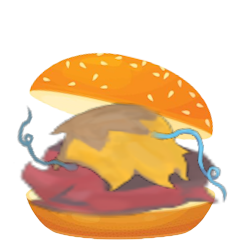
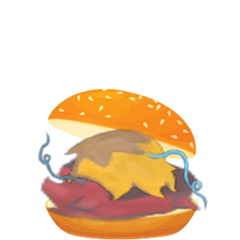
Add SpireSpaghetti food for Snackmaster

diff --git a/src/main/java/spireCafe/interactables/merchants/snackmaster/persistent/SpireSpaghettiBlight.java b/src/main/java/spireCafe/interactables/merchants/snackmaster/persistent/SpireSpaghettiBlight.java
@@ -1,0 +1,66 @@
+package spireCafe.interactables.merchants.snackmaster.persistent;
+
+import com.badlogic.gdx.graphics.g2d.SpriteBatch;
+import com.megacrit.cardcrawl.actions.common.ExhaustAction;
+import com.megacrit.cardcrawl.actions.watcher.SkipEnemiesTurnAction;
+import com.megacrit.cardcrawl.blights.AbstractBlight;
+import com.megacrit.cardcrawl.dungeons.AbstractDungeon;
+import com.megacrit.cardcrawl.vfx.AbstractGameEffect;
+import spireCafe.Anniv7Mod;
+import spireCafe.abstracts.AbstractSCBlight;
+import spireCafe.util.Wiz;
+
+public class SpireSpaghettiBlight extends AbstractSCBlight {
+    public static final String ID = Anniv7Mod.makeID(SpireSpaghettiBlight.class.getSimpleName());
+    public static final int TURN_AMT = 8;
+
+    private boolean usedThisCombat = false;
+
+    public SpireSpaghettiBlight() {
+        super(ID, "spireSpaghetti.png");
+        setCounter(TURN_AMT);
+    }
+
+    @Override
+    public void atBattleStart() {
+        if(!usedUp) {
+            counter--;
+
+            if(counter <= 0) {
+                usedUp();
+            }
+        }
+    }
+
+    @Override
+    public void onPlayerEndTurn() {
+        if(!usedUp && !usedThisCombat&& AbstractDungeon.actionManager.cardsPlayedThisTurn.isEmpty()) {
+            flash();
+            Wiz.att(new ExhaustAction(999, true, false, false));
+            Wiz.atb(new SkipEnemiesTurnAction());
+            usedThisCombat = true;
+        }
+    }
+
+    @Override
+    public void onVictory() {
+        if(usedUp) {
+            AbstractDungeon.effectList.add(new AbstractGameEffect() {
+                @Override
+                public void update() {
+                    isDone = true;
+                    Wiz.p().blights.remove(SpireSpaghettiBlight.this);
+                }
+                public void render(SpriteBatch spriteBatch) {}
+                public void dispose() {}
+            });
+        } else {
+            usedThisCombat = false;
+        }
+    }
+
+    @Override
+    public AbstractBlight makeCopy() {
+        return new SpireSpaghettiBlight();
+    }
+}

diff --git a/src/main/java/spireCafe/interactables/merchants/snackmaster/food/SpireSpaghetti.java b/src/main/java/spireCafe/interactables/merchants/snackmaster/food/SpireSpaghetti.java
@@ -1,0 +1,36 @@
+package spireCafe.interactables.merchants.snackmaster.food;
+
+import com.megacrit.cardcrawl.dungeons.AbstractDungeon;
+import spireCafe.abstracts.AbstractMerchant;
+import spireCafe.interactables.merchants.snackmaster.persistent.SpireSpaghettiBlight;
+
+import static spireCafe.interactables.merchants.snackmaster.SnackmasterMerchant.ZINGER_CUTOFF;
+import static spireCafe.interactables.merchants.snackmaster.SnackmasterMerchant.snackmasterStrings;
+
+public class SpireSpaghetti extends AbstractFoodArticle{
+
+
+    public SpireSpaghetti(AbstractMerchant merchant, int slot) {
+        super("SpireSpaghetti", merchant, slot, "spireSpaghetti");
+    }
+
+    @Override
+    public void foodEffect() {
+        AbstractDungeon.getCurrRoom().spawnBlightAndObtain(xPos, yPos, new SpireSpaghettiBlight());
+    }
+
+    @Override
+    public int getBasePrice() {
+        return 120;
+    }
+
+    @Override
+    public String getTipHeader() {
+        return snackmasterStrings.TEXT[ZINGER_CUTOFF+5];
+    }
+
+    @Override
+    public String getTipBody() {
+        return snackmasterStrings.TEXT[ZINGER_CUTOFF+6];
+    }
+}

diff --git a/src/main/java/spireCafe/interactables/merchants/snackmaster/SnackmasterMerchant.java b/src/main/java/spireCafe/interactables/merchants/snackmaster/SnackmasterMerchant.java
@@ -10,6 +10,7 @@ import spireCafe.Anniv7Mod;
 import spireCafe.abstracts.AbstractMerchant;
 import spireCafe.interactables.merchants.snackmaster.food.LouseBurger;
 import spireCafe.interactables.merchants.snackmaster.food.MawFillet;
+import spireCafe.interactables.merchants.snackmaster.food.SpireSpaghetti;
 import spireCafe.util.TexLoader;
 import spireCafe.vfx.TopLevelSpeechEffect;
 
@@ -41,7 +42,7 @@ public class SnackmasterMerchant extends AbstractMerchant {
     public void rollShop() {
         articles.add(new LouseBurger(this, 0));
         articles.add(new MawFillet(this, 1));
-        articles.add(new LouseBurger(this, 2));
+        articles.add(new SpireSpaghetti(this, 2));
     }
 
     @Override
